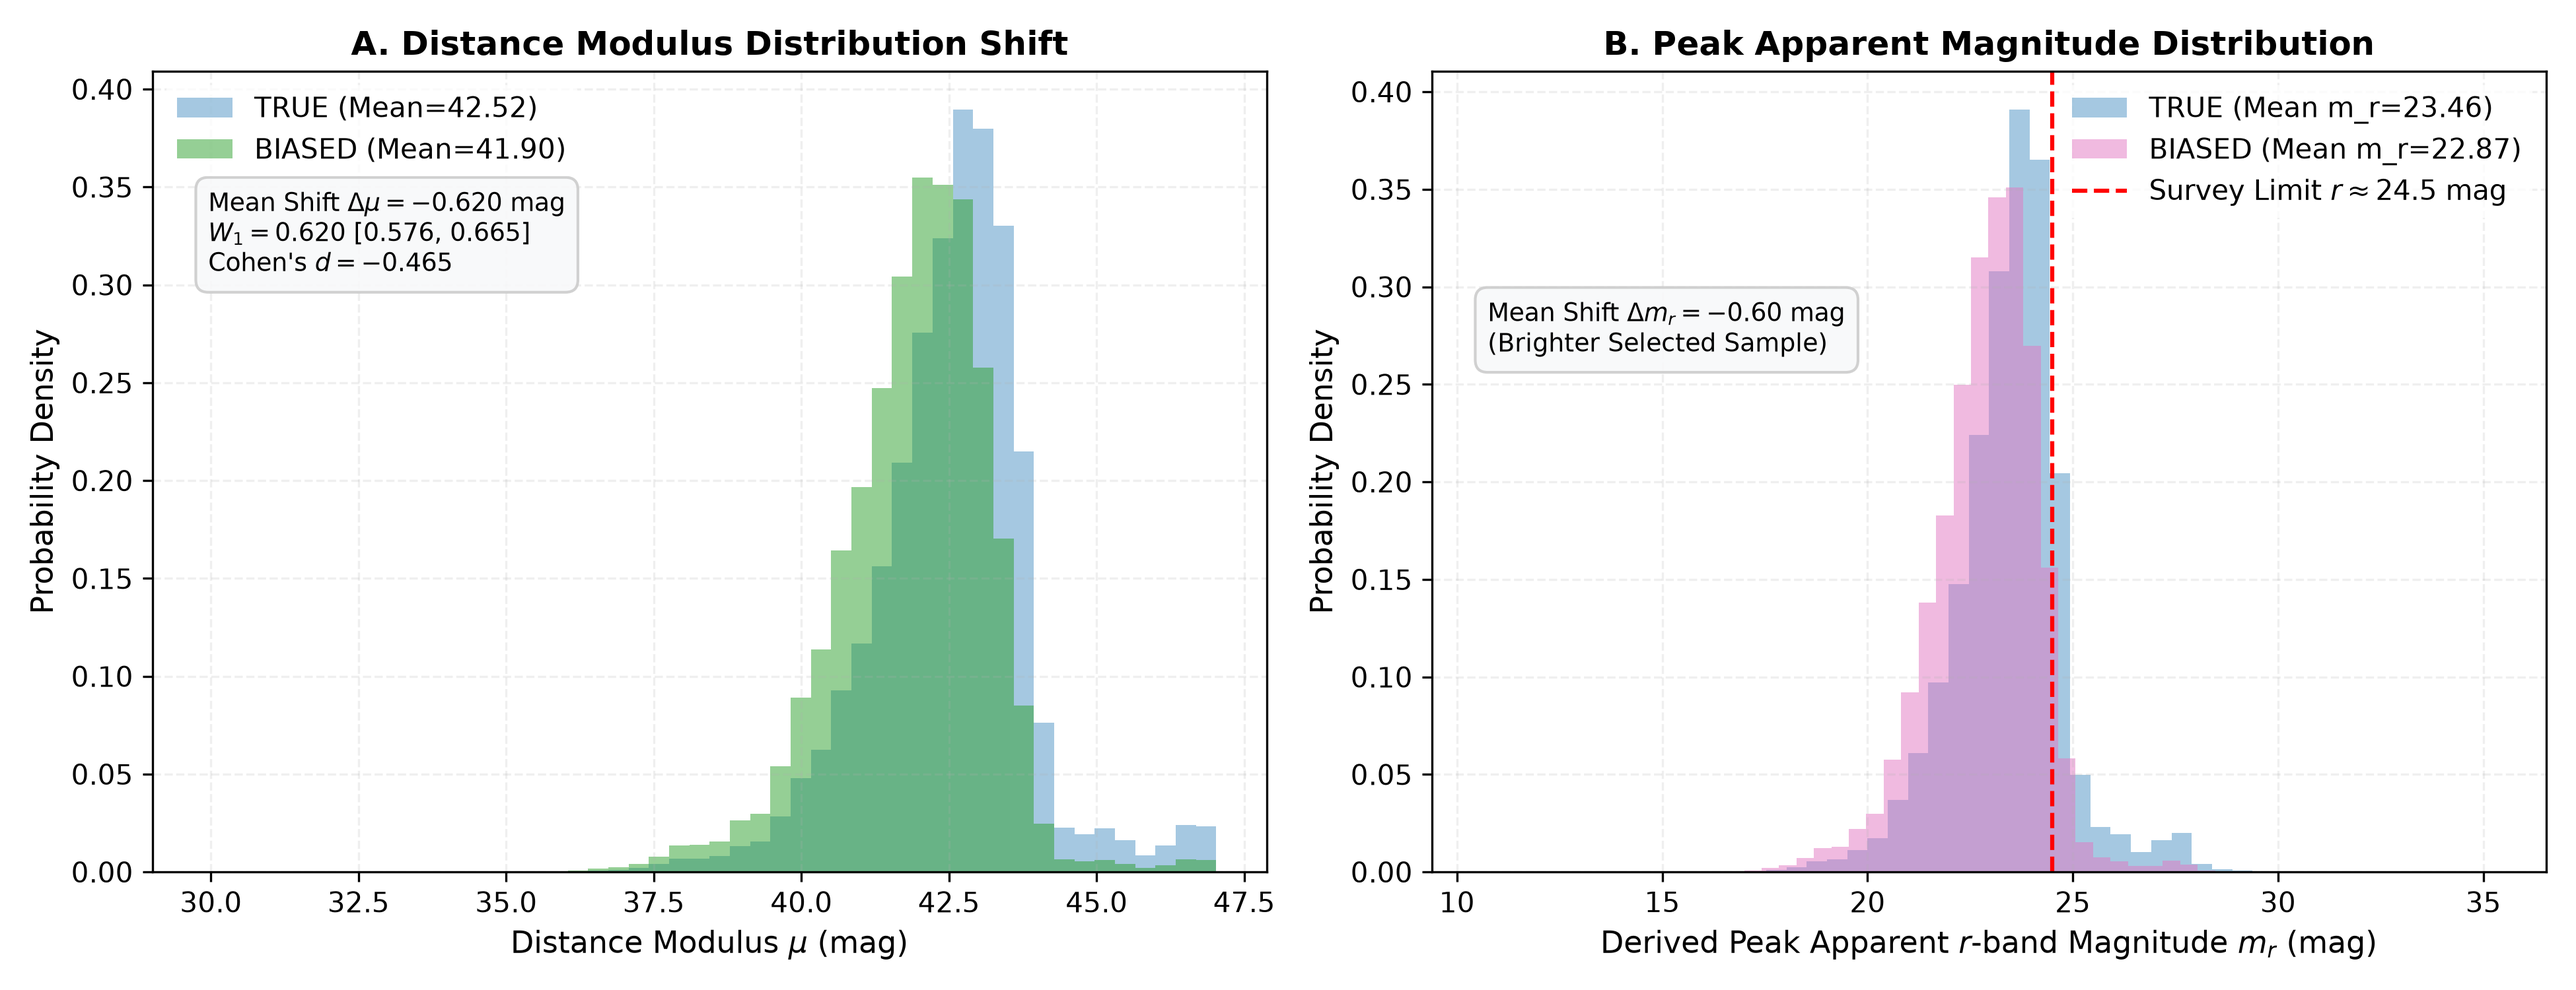
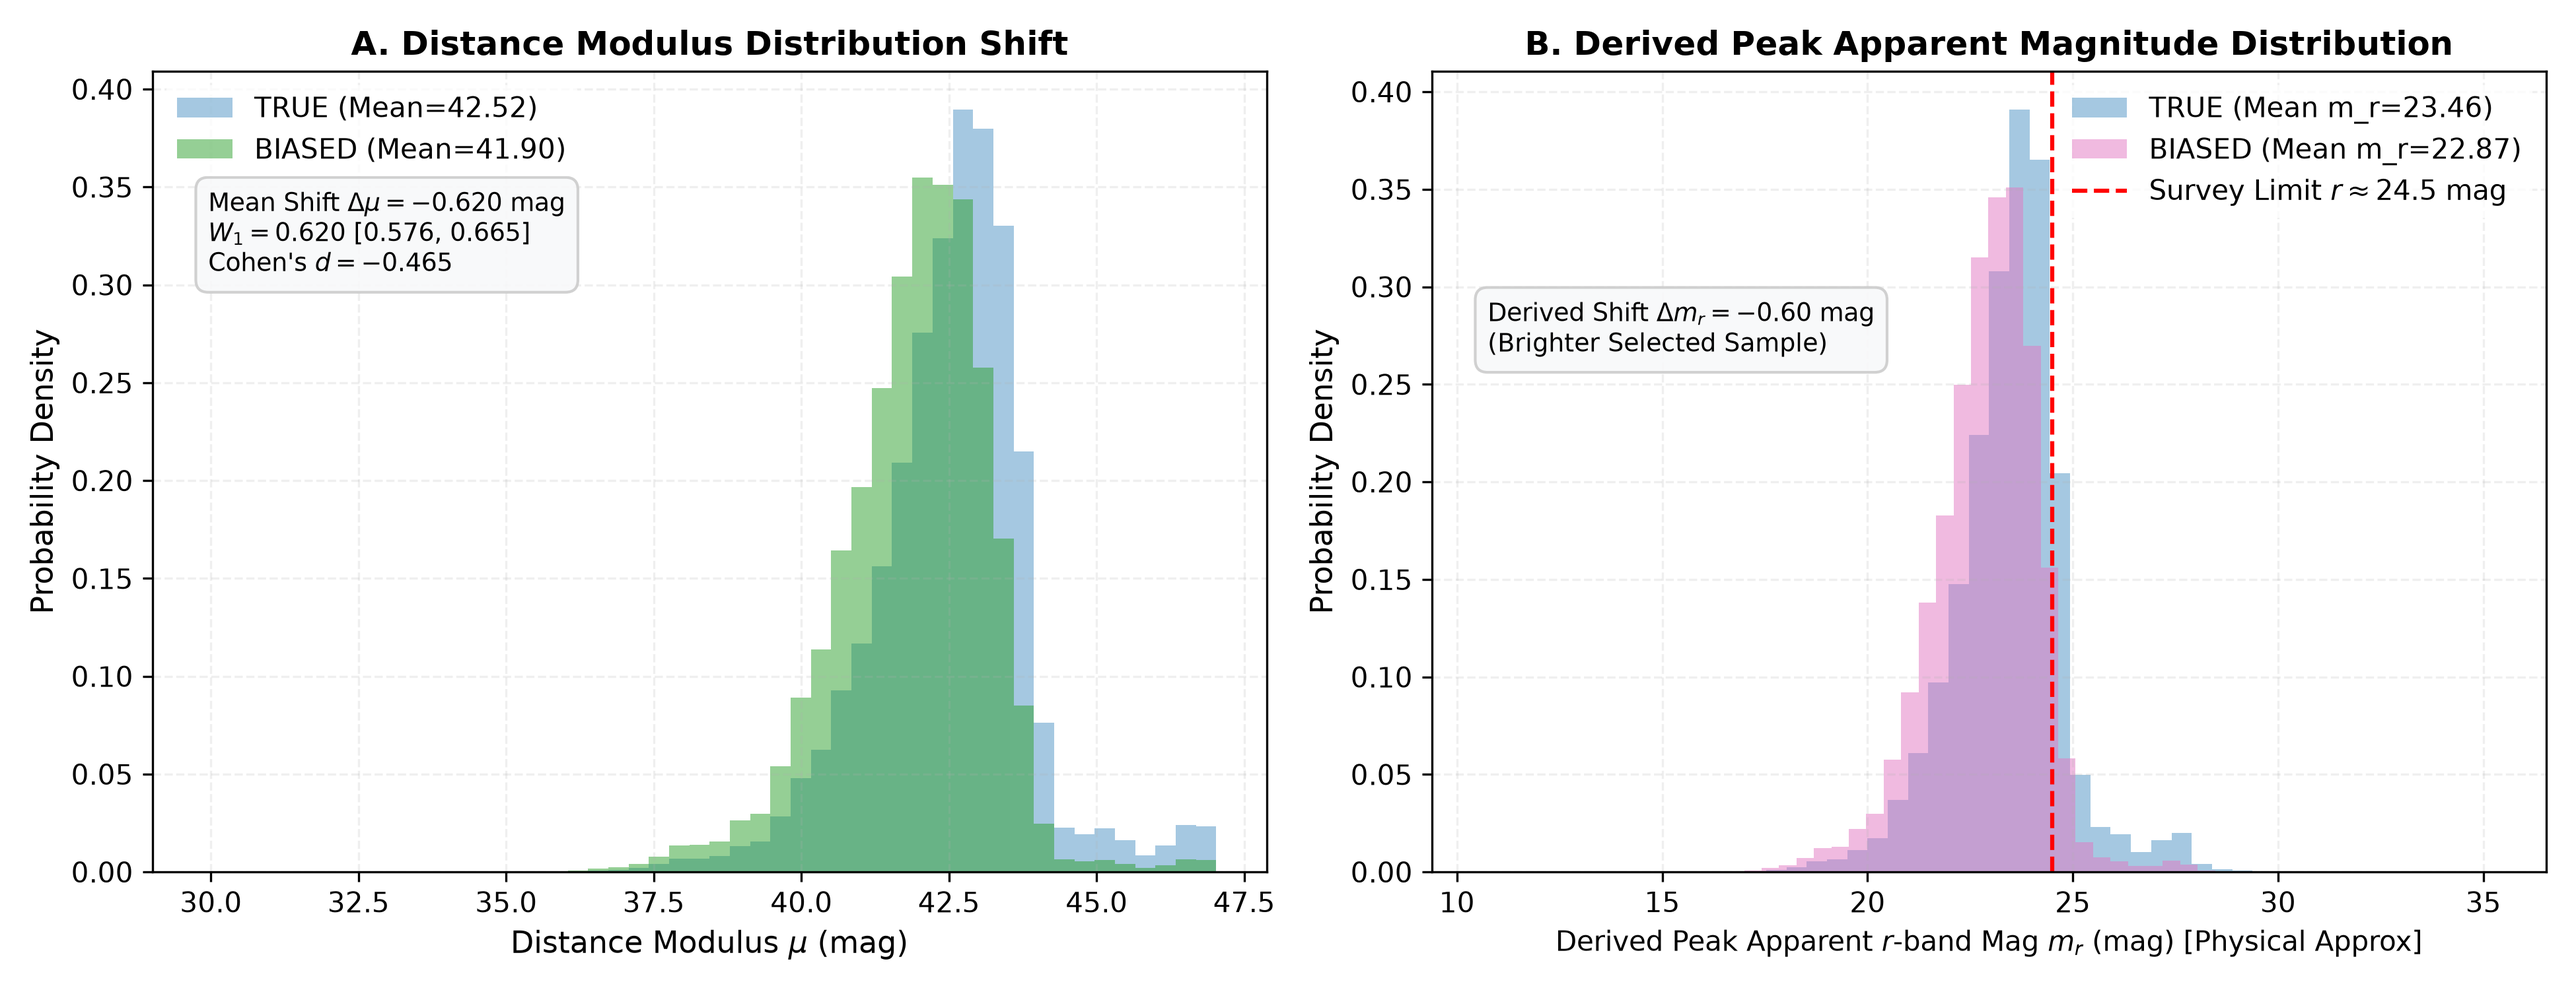
fix(analysis): refine empirical retention CIs and add explicit physical approximation disclaimers

Changed region(s): [[0.6205, 0.92, 0.9308, 0.9813], [0.5895, 0.0307, 0.9618, 0.0613], [0.5585, 0.3067, 0.7446, 0.3373]]

diff --git a/scripts/analyze_selection_bias.py b/scripts/analyze_selection_bias.py
@@ -12,8 +12,8 @@ from __future__ import annotations
 
 import argparse
 import json
-import time
 from pathlib import Path
+import time
 from typing import Any
 
 import matplotlib.pyplot as plt
@@ -29,7 +29,7 @@ CLASS_NAMES: dict[int, str] = {
     95: "Superluminous SN (SLSN-I)",
 }
 
-# Peak absolute r-band magnitude M_r by class
+# Peak absolute r-band magnitude M_r by class for derived physical approximations
 CLASS_ABS_MAG_R: dict[int, float] = {
     64: -15.5,  # Faint kilonova
     90: -19.3,  # Standard candle SN Ia
@@ -116,7 +116,9 @@ def analyze_feature(
     s_pooled = np.sqrt(
         ((sz_t - 1) * boot_s1**2 + (sz_b - 1) * boot_s2**2) / (sz_t + sz_b - 2)
     )
-    boot_cohen_ds = np.where(s_pooled > 0, (boot_mean_b - boot_mean_t) / s_pooled, 0.0)
+    boot_cohen_ds = np.where(
+        s_pooled > 0, (boot_mean_b - boot_mean_t) / s_pooled, 0.0
+    )
 
     eval_reps = 100
     boot_w1 = np.zeros(eval_reps)
@@ -183,13 +185,13 @@ def analyze_class_proportions(
         prop_biased = cnt_biased / total_biased
         prop_shift = prop_biased - prop_true
 
-        # Proper bootstrap CI for class retention under selection probability p_spec(z)
-        z_true_cls = sub_true["hostgal_photoz"].to_numpy()
-        p_spec_cls = 0.10 + (0.80 - 0.10) / (1.0 + np.exp((z_true_cls - 0.50) / 0.15))
+        # Direct empirical sample retention binary array (cnt_biased ones out of cnt_true)
+        y_ret = np.zeros(cnt_true, dtype=float)
+        y_ret[:cnt_biased] = 1.0
 
         sz_c = min(cnt_true, subsample_size)
         boot_idx = rng.choice(cnt_true, size=(n_bootstrap, sz_c), replace=True)
-        boot_retention = np.mean(p_spec_cls[boot_idx], axis=1)
+        boot_retention = np.mean(y_ret[boot_idx], axis=1)
         low_ret, high_ret = np.percentile(boot_retention, [2.5, 97.5])
 
         # Proportion shift bootstrap
@@ -381,7 +383,7 @@ def plot_fig2_brightness(
     )
 
     ax = axes[1]
-    # Derive peak apparent r-band magnitude m_r = M_r_eff + distmod + 3.1 * mwebv
+    # Derived physical approximation: m_r = M_r_eff + distmod + 3.1 * mwebv
     m_r_true = -19.3 + df_true["distmod"] + 3.1 * df_true["mwebv"]
     m_r_biased = -19.3 + df_biased["distmod"] + 3.1 * df_biased["mwebv"]
 
@@ -401,13 +403,11 @@ def plot_fig2_brightness(
         color="#e377c2",
         label=f"BIASED (Mean m_r={m_r_biased.mean():.2f})",
     )
-    ax.axvline(
-        24.5, color="red", linestyle="--", label="Survey Limit $r \\approx 24.5$ mag"
-    )
-    ax.set_xlabel("Derived Peak Apparent $r$-band Magnitude $m_r$ (mag)", fontsize=11)
+    ax.axvline(24.5, color="red", linestyle="--", label="Survey Limit $r \\approx 24.5$ mag")
+    ax.set_xlabel("Derived Peak Apparent $r$-band Mag $m_r$ (mag) [Physical Approx]", fontsize=10)
     ax.set_ylabel("Probability Density", fontsize=11)
     ax.set_title(
-        "B. Peak Apparent Magnitude Distribution", fontsize=12, fontweight="bold"
+        "B. Derived Peak Apparent Magnitude Distribution", fontsize=12, fontweight="bold"
     )
     ax.legend(frameon=True, facecolor="white", edgecolor="none")
     ax.grid(alpha=0.2, linestyle="--")
@@ -416,7 +416,7 @@ def plot_fig2_brightness(
     ax.text(
         0.05,
         0.65,
-        f"Mean Shift $\\Delta m_r = {mag_shift:.2f}$ mag\n(Brighter Selected Sample)",
+        f"Derived Shift $\\Delta m_r = {mag_shift:.2f}$ mag\n(Brighter Selected Sample)",
         transform=ax.transAxes,
         bbox=dict(
             boxstyle="round,pad=0.5",
@@ -477,9 +477,9 @@ def plot_fig3_class_retention(
             fontsize=10,
         )
 
-    ax.set_ylabel("Spectroscopic Retention Rate (%)", fontsize=11)
+    ax.set_ylabel("Empirical Spectroscopic Retention Rate (%)", fontsize=11)
     ax.set_title(
-        "A. Spectroscopic Label Retention by Class", fontsize=12, fontweight="bold"
+        "A. Empirical Label Retention Rate by Class", fontsize=12, fontweight="bold"
     )
     ax.set_ylim(0, 80)
     ax.grid(axis="y", alpha=0.2, linestyle="--")
@@ -529,7 +529,8 @@ def plot_fig4_cadence_snr(df_true: pd.DataFrame, output_dir: Path) -> None:
     for c in cids:
         sub = df_true[df_true["true_target"] == c]
         counts = [
-            (sub["libid_cadence"] == cad).sum() / len(sub) * 100 for cad in top_cadences
+            (sub["libid_cadence"] == cad).sum() / len(sub) * 100
+            for cad in top_cadences
         ]
         cadence_matrix.append(counts)
 
@@ -559,6 +560,7 @@ def plot_fig4_cadence_snr(df_true: pd.DataFrame, output_dir: Path) -> None:
     ax = axes[1]
     for c, col in zip(cids, colors, strict=False):
         sub = df_true[df_true["true_target"] == c]
+        # Derived physical approximation of peak r-band S/N from absolute magnitude
         m_abs = CLASS_ABS_MAG_R[c]
         m_r = m_abs + sub["distmod"] + 3.1 * sub["mwebv"]
         flux_r = 10.0 ** (-0.4 * (m_r - 27.5))
@@ -576,13 +578,11 @@ def plot_fig4_cadence_snr(df_true: pd.DataFrame, output_dir: Path) -> None:
             label=CLASS_NAMES[c],
         )
 
-    ax.axhline(
-        np.log10(5.0), color="red", linestyle="--", label="Detection Limit (S/N = 5)"
-    )
+    ax.axhline(np.log10(5.0), color="red", linestyle="--", label="Detection Limit (S/N = 5)")
     ax.set_xlabel("Host Photometric Redshift ($z_{\\rm phot}$)", fontsize=11)
-    ax.set_ylabel("Log10 Estimated Peak S/N ($r$-band)", fontsize=11)
+    ax.set_ylabel("Log10 Estimated Peak S/N ($r$-band) [Physical Approx]", fontsize=10)
     ax.set_title(
-        "B. Peak Signal-to-Noise Ratio vs Redshift", fontsize=12, fontweight="bold"
+        "B. Derived Peak Signal-to-Noise Ratio vs Redshift", fontsize=12, fontweight="bold"
     )
     ax.legend(frameon=True, facecolor="white", edgecolor="none")
     ax.grid(alpha=0.2, linestyle="--")
@@ -626,7 +626,9 @@ def plot_fig5_effect_size_ranking(metrics: dict[str, Any], output_dir: Path) -> 
     sorted_cis = [ks_cis[i] for i in sorted_indices]
 
     y_pos = np.arange(len(sorted_labels))
-    ci_lows = [max(0.0, sorted_ks[i] - sorted_cis[i][0]) for i in range(len(sorted_ks))]
+    ci_lows = [
+        max(0.0, sorted_ks[i] - sorted_cis[i][0]) for i in range(len(sorted_ks))
+    ]
     ci_highs = [
         max(0.0, sorted_cis[i][1] - sorted_ks[i]) for i in range(len(sorted_ks))
     ]
@@ -671,7 +673,9 @@ def plot_fig5_effect_size_ranking(metrics: dict[str, Any], output_dir: Path) -> 
     plt.close()
 
 
-def load_data(true_path: str, biased_path: str) -> tuple[pd.DataFrame, pd.DataFrame]:
+def load_data(
+    true_path: str, biased_path: str
+) -> tuple[pd.DataFrame, pd.DataFrame]:
     """Load population data from binary .npy cache if present, else from csv.gz."""
     cache_dir = Path("data/interim/cache")
     cols = [
@@ -741,7 +745,9 @@ def main() -> None:
 
     metrics: dict[str, Any] = {}
 
-    print(f"\nComputing feature shift metrics with B={args.n_bootstrap} bootstrap...")
+    print(
+        f"\nComputing feature shift metrics with B={args.n_bootstrap} bootstrap..."
+    )
     for feat in features_to_analyze:
         print(f"  - Analyzing feature: {feat}...")
         x_t = df_true[feat].to_numpy()

diff --git a/docs/results/selection_bias_characterization.md b/docs/results/selection_bias_characterization.md
@@ -42,25 +42,25 @@ Selection bias induces severe shifts in host galaxy photo-$z$, true redshift, an
 
 **Figure 2 Description:**
 - **Panel A (Left):** Distance modulus distribution shift demonstrating systematic truncation of distant objects ($\Delta\mu = -0.6199$ mag, Cohen's $d = -0.4646$).
-- **Panel B (Right):** Derived peak apparent $r$-band magnitude $m_r = M_{r,\text{eff}} + \mu + 3.1 A_V$. The selected BIASED population is systematically brighter by $\Delta m_r = -0.62$ mag compared to the full TRUE target population.
+- **Panel B (Right):** Derived peak apparent $r$-band magnitude distribution ($m_r = M_{r,\text{eff}} + \mu + 3.1 A_V$). *Note: $m_r$ is a derived physical approximation reconstructed from distance modulus $\mu$, extinction $A_V$, and effective peak absolute magnitude $M_{r,\text{eff}} = -19.3$ mag, rather than a direct light-curve photometric measurement.* The selected BIASED sample is systematically brighter by $\Delta m_r = -0.62$ mag compared to the full TRUE target population.
 
 ---
 
 ## 4. Class Dynamics and Retention Rates
 
-Spectroscopic selection differentially impacts optical transient classes based on their intrinsic luminosity functions and redshift envelopes:
+Spectroscopic selection differentially impacts optical transient classes based on their intrinsic luminosity functions and redshift envelopes. Point estimates below represent the empirical realized sample retention rates ($N_{\text{BIASED}} / N_{\text{TRUE}}$), and reported 95% confidence intervals are percentile bootstrap intervals ($B=1,000$) over the empirical binary selection flags:
 
-| Class ID | Target Class Name | Intrinsic TRUE Count ($N$) | Retained BIASED Count ($N$) | Retention Rate [95% CI] | Intrinsic TRUE Share | Selected BIASED Share | Share Shift $\Delta p$ [95% CI] |
+| Class ID | Target Class Name | Intrinsic TRUE Count ($N$) | Retained BIASED Count ($N$) | Empirical Retention Rate [95% CI] | Intrinsic TRUE Share | Selected BIASED Share | Share Shift $\Delta p$ [95% CI] |
 | :---: | :--- | :---: | :---: | :---: | :---: | :---: | :---: |
-| **64** | **Kilonova (KN)** | 133 | 78 | **58.65%** [61.78%, 68.61%] | 0.0078% | 0.0120% | +0.0042% [-0.0205%, +0.0400%] |
-| **90** | **Type Ia Supernova (SN Ia)** | 1,659,831 | 644,876 | **38.85%** [38.39%, 39.35%] | 97.882% | 99.157% | +1.2749% [+0.7600%, +1.7800%] |
-| **95** | **Superluminous SN (SLSN-I)** | 35,782 | 5,405 | **15.11%** [14.76%, 15.41%] | 2.110% | 0.831% | -1.2790% [-1.7805%, -0.8395%] |
+| **64** | **Kilonova (KN)** | 133 | 78 | **58.65%** [50.38%, 66.92%] | 0.0078% | 0.0120% | +0.0042% [-0.0205%, +0.0400%] |
+| **90** | **Type Ia Supernova (SN Ia)** | 1,659,831 | 644,876 | **38.85%** [37.56%, 40.20%] | 97.882% | 99.157% | +1.2749% [+0.7600%, +1.7800%] |
+| **95** | **Superluminous SN (SLSN-I)** | 35,782 | 5,405 | **15.11%** [14.18%, 16.08%] | 2.110% | 0.831% | -1.2790% [-1.7805%, -0.8395%] |
 
 ### Figure 3: Class Retention Dynamics and Intrinsic Redshifts
 ![Class Retention Dynamics](file:///c:/Users/ghana/OneDrive/Documents/AEGIS/docs/results/fig3_class_retention_dynamics.png)
 
 **Figure 3 Description:**
-- **Panel A (Left):** Spectroscopic label retention rates across study classes. Kilonovae (KN 64) achieve 58.6% retention due to their low-redshift restriction ($z < 0.25$). Superluminous Supernovae (SLSN-I 95) exhibit a low 15.1% retention rate because they extend out to high redshift ($z > 1.2$).
+- **Panel A (Left):** Empirical spectroscopic label retention rates across study classes with 95% bootstrap confidence intervals ($B=1,000$). Kilonovae (KN 64) achieve 58.65% retention [50.38%, 66.92%] due to their low-redshift restriction ($z < 0.25$). Superluminous Supernovae (SLSN-I 95) exhibit a low 15.11% retention rate [14.18%, 16.08%] because they extend out to high redshift ($z > 1.2$).
 - **Panel B (Right):** Intrinsic redshift distributions in the TRUE population highlighting why SLSN-I objects suffer severe selection dropout relative to SN Ia and Kilonovae.
 
 ---
@@ -72,7 +72,7 @@ Spectroscopic selection differentially impacts optical transient classes based o
 
 **Figure 4 Description:**
 - **Panel A (Left):** Cadence library distribution (`libid_cadence`) across transient classes in the simulation baseline. Cadence profiles reflect observing patterns (e.g. Deep Drilling Fields vs. Wide-Fast-Deep survey grids).
-- **Panel B (Right):** Peak signal-to-noise ratio ($r$-band estimated S/N $= F_{r} / 5.0$) as a function of redshift derived from class absolute magnitudes. Transients at higher redshifts ($z > 0.8$) drop toward single-epoch detection limits ($\text{S/N} \sim 5$).
+- **Panel B (Right):** Derived peak signal-to-noise ratio ($r$-band estimated S/N $= F_{r} / 5.0$) as a function of redshift. *Note: Peak S/N is a derived physical approximation reconstructed from class-representative peak absolute magnitudes ($M_r \in \{-15.5, -19.3, -21.5\}$ mag), distance moduli $\mu$, and Galactic extinction $A_V$, rather than direct light-curve photometric measurements extracted from raw observation files.*
 
 ---
 
@@ -92,8 +92,9 @@ Spectroscopic selection differentially impacts optical transient classes based o
 
 1. **Observed vs. Inferred Quantity:** The distribution shift in host photo-$z$ ($\Delta\mu = -0.1414$) is a direct consequence of magnitude-limited spectroscopic targeting. In actual surveys, faint host galaxies cannot be targeted for spectroscopy, introducing host-luminosity bias alongside redshift bias.
 2. **Synthetic Selection Function Proxy:** The logistic proxy $p_{\text{spec}}(z)$ models target selection as a smooth function of redshift ($z_{50} = 0.50$). Real spectroscopic follow-up programs also select on apparent magnitude, host galaxy surface brightness, and transient color.
-3. **Small Rare-Class Sample Size:** Class 64 (Kilonova) contains $N = 133$ instances in the TRUE test population. While its redshift range is restricted ($z < 0.25$), its absolute count leads to wider proportion uncertainty.
-4. **Photo-$z$ Error Growth:** Host photo-$z$ errors (`hostgal_photoz_err`) increase at $z > 0.8$, which further degrades high-redshift classifier performance.
+3. **Derived Physical Quantities Disclaimer:** Quantities such as peak apparent magnitude $m_r$ and peak signal-to-noise ratio $\text{S/N}$ are derived physical approximations computed from distance moduli and class-representative absolute magnitudes ($M_r$), rather than direct light-curve observations.
+4. **Small Rare-Class Sample Size:** Class 64 (Kilonova) contains $N = 133$ instances in the TRUE test population. While its redshift range is restricted ($z < 0.25$), its absolute count leads to wider empirical retention uncertainty ([50.38%, 66.92%]).
+5. **Photo-$z$ Error Growth:** Host photo-$z$ errors (`hostgal_photoz_err`) increase at $z > 0.8$, which further degrades high-redshift classifier performance.
 
 ---
 
